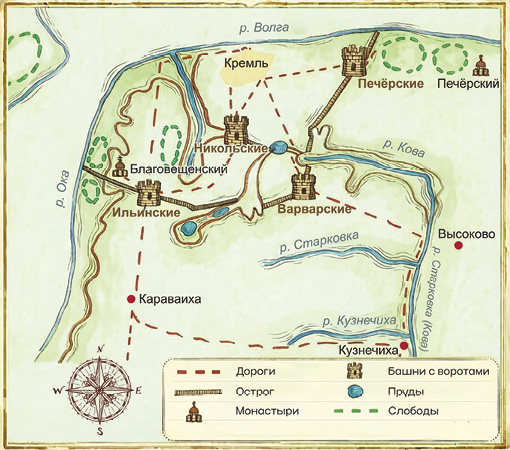
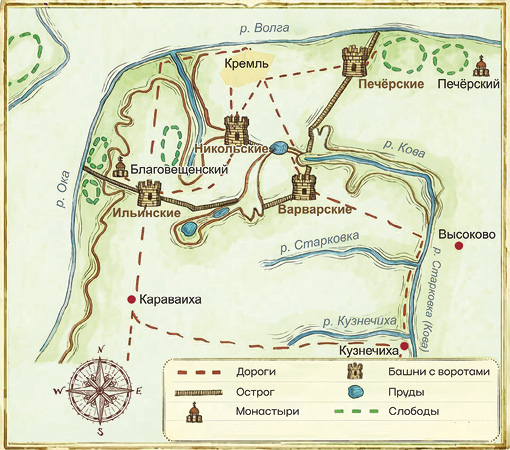
Обновление 6

diff --git a/book/NN-history-5.html b/book/NN-history-5.html
@@ -3830,11 +3830,11 @@
 			<p class="main ParaOverride-13"><span class="CharOverride-11">3</span><span class="Bold CharOverride-14"> </span><span class="BoldBlue">Расположение кремлёвских башен.</span> Наиболее уязвимым местом обороны Нижегородского кремля являлся равнинный участок от Георгиевской до Коромысловой башни. Тут для штурмующих не было никаких естественных преград. Именно поэтому строители кремля воздвигли здесь наибольшее количество башен. Их целых шесть: Георгиевская, Пороховая, Дмитриевская, Кладовая, Никольская, Коромыслова.</p>
 			<p class="main">Приступ со стороны Почайны представлялся маловероятным. Соответственно, участок стены, возвышающийся над крутым Почаинским оврагом, защищали только две башни&#160;— Тайницкая и Северная. Обе они круглые, поскольку вылазки здесь были нецелесообразны, а значит, и ворота в башнях не требовались. Зато их сделали в стене между башнями. Через эти ворота из кремля ходили за водой на реку Почайну. Ведь Нижегородский кремль стоял на горе. Подземные воды находились далеко внизу. Поэтому колодцы здесь не рыли, а воду для питья брали из реки.</p>
 			<div class="_idGenObjectLayout-1">
-				<div id="_idContainer353" class="OBJ_Figure_Right1 _idGenObjectStyle-Disabled">
-					<div id="_idContainer351" class="OBJ_Figure_Right1 _idGenObjectStyleOverride-1">
+				<div id="_idContainer353" class="OBJ_Figure_Right2 _idGenObjectStyle-Disabled">
+					<div id="_idContainer351" class="OBJ_Figure_Right2 _idGenObjectStyleOverride-1">
 						<img class="_idGenObjectAttribute-1" src="NN-history-5-web-resources/image/p105-01.jpg" alt="" />
 					</div>
-					<div id="_idContainer352" class="OBJ_Figure_Right1">
+					<div id="_idContainer352" class="OBJ_Figure_Right2">
 						<p class="TXT_Caption">Георгиевская башня Нижегородского кремля <br /></p>
 					</div>
 				</div>

diff --git a/book/NN-history-5-web-resources/css/idGeneratedStyles-1.css b/book/NN-history-5-web-resources/css/idGeneratedStyles-1.css
@@ -18,9 +18,6 @@ div.OBJ_Figure2 {
 div.OBJ_Figure_Left2 {
 	border-style:solid;
 }
-div.OBJ_Figure_Right1 {
-	border-style:solid;
-}
 div.OBJ_Figure_Right2 {
 	border-style:solid;
 }
